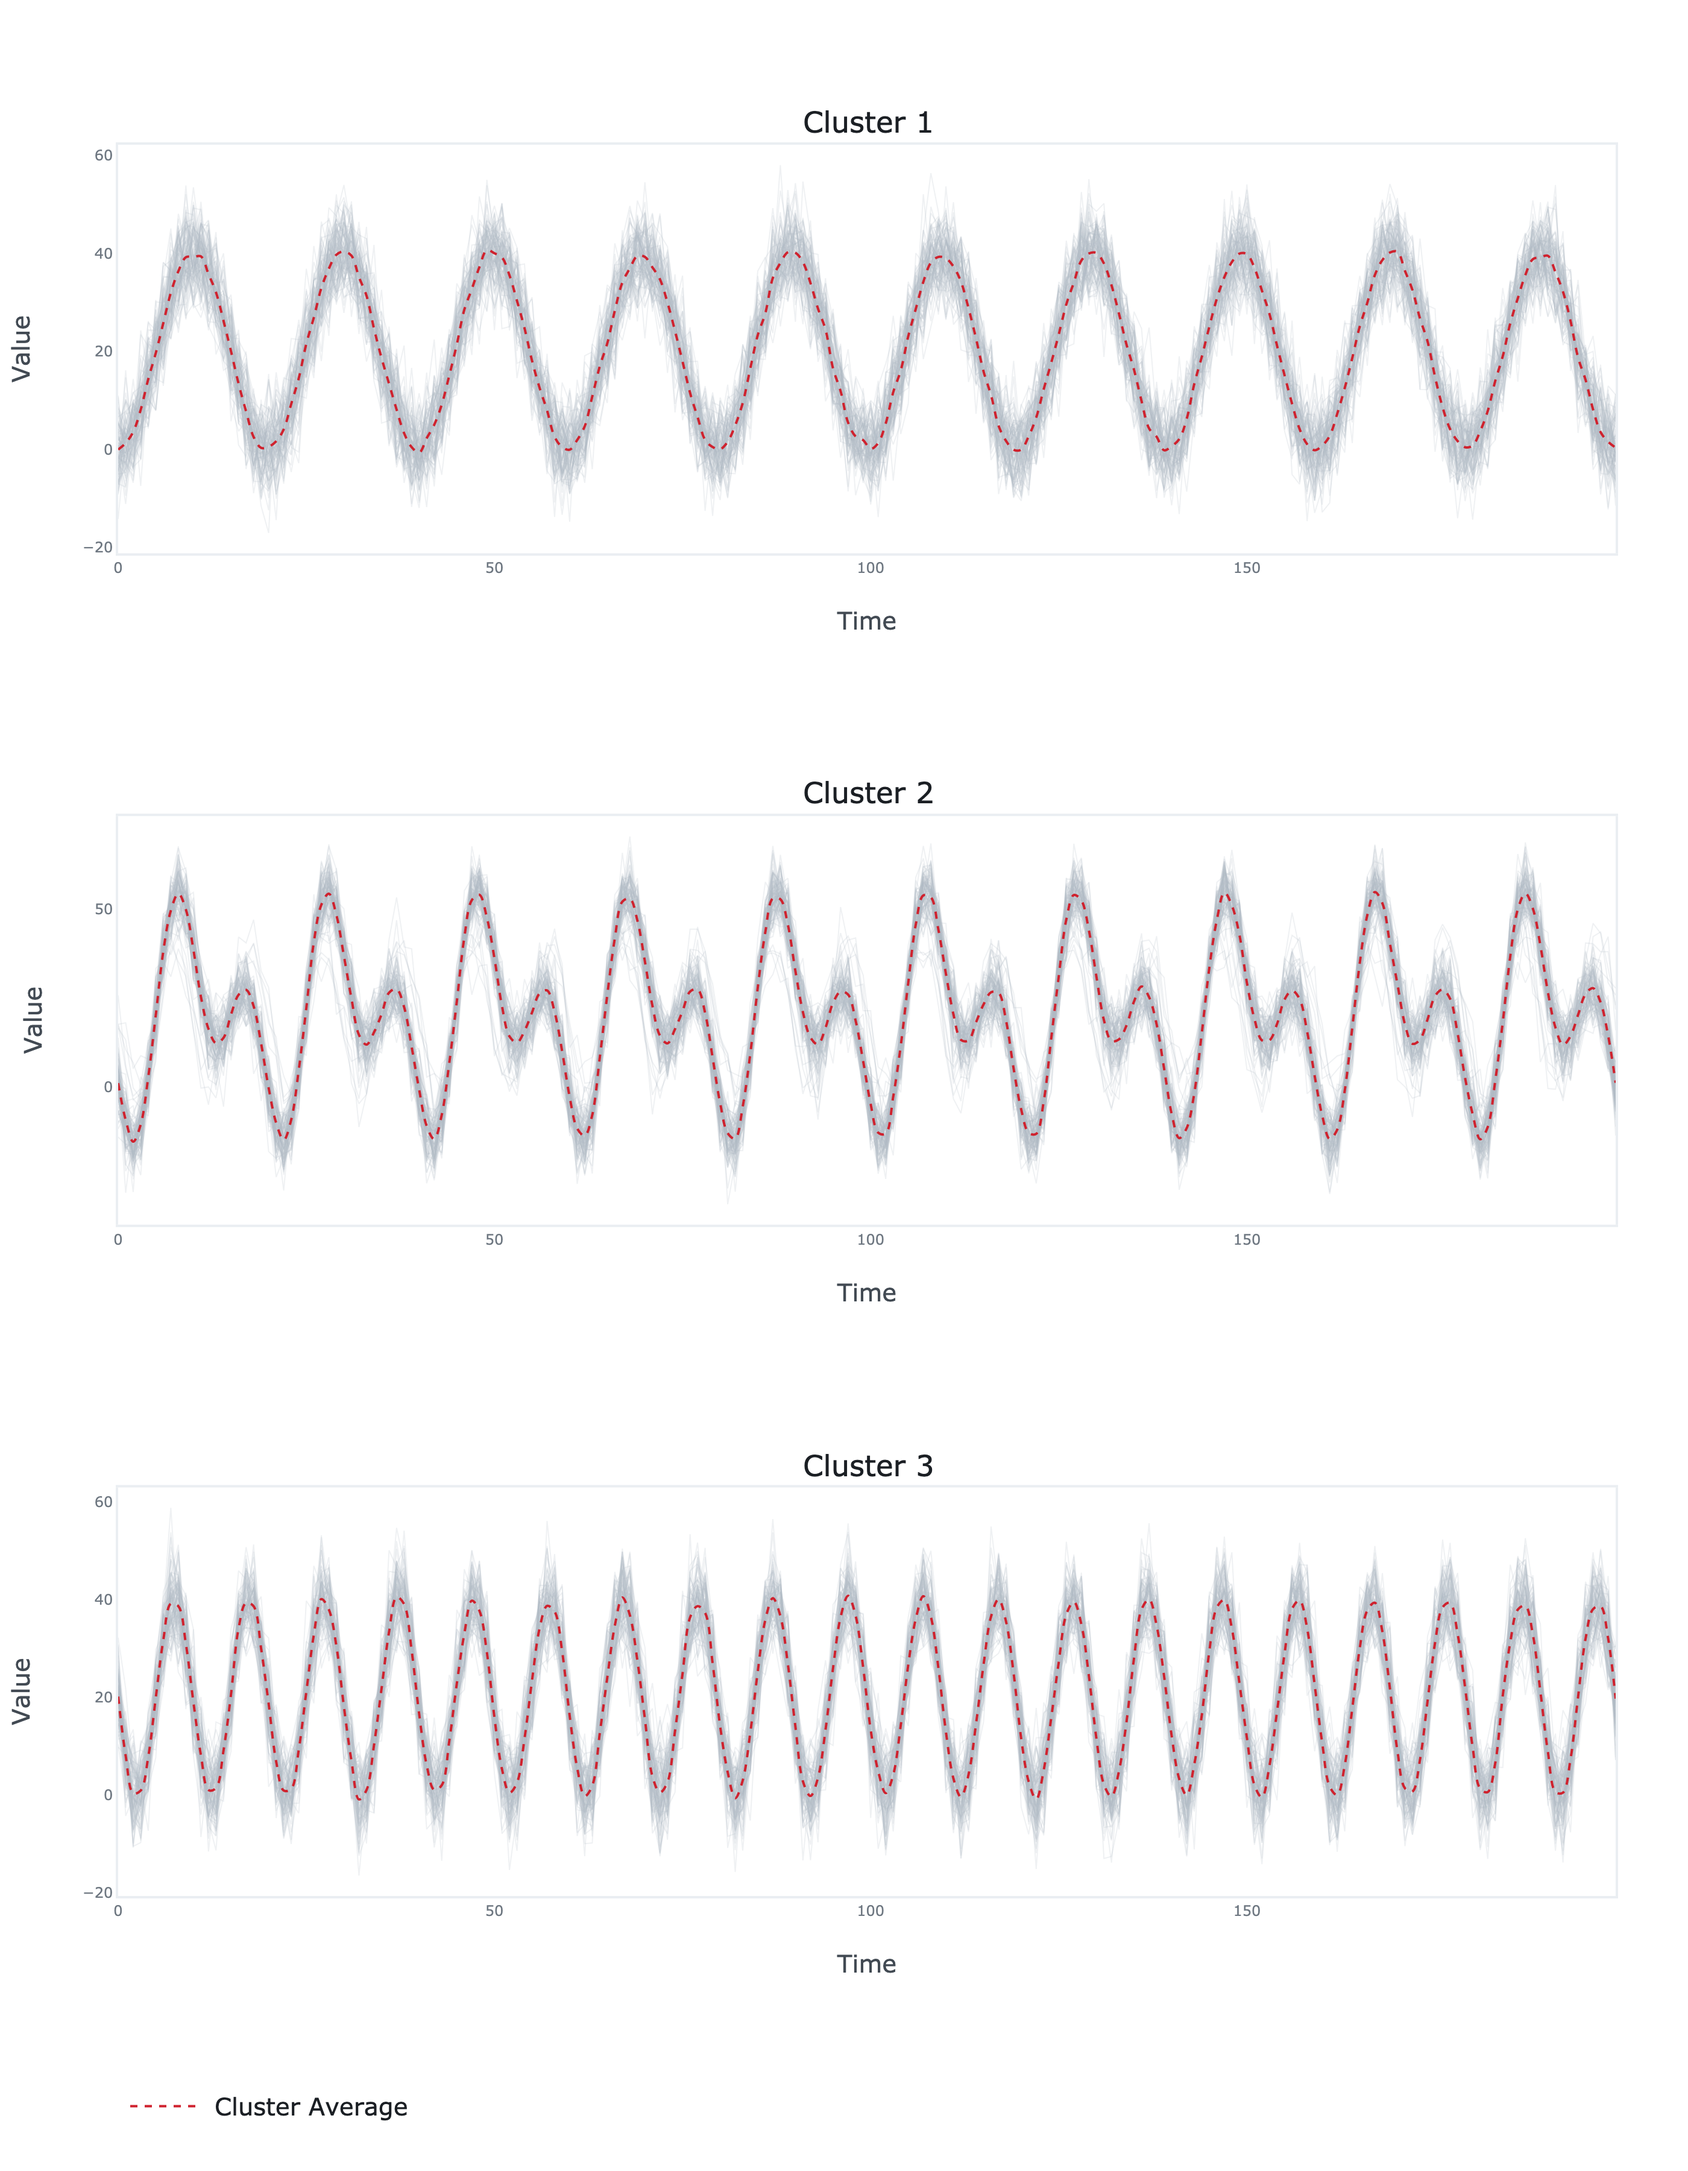
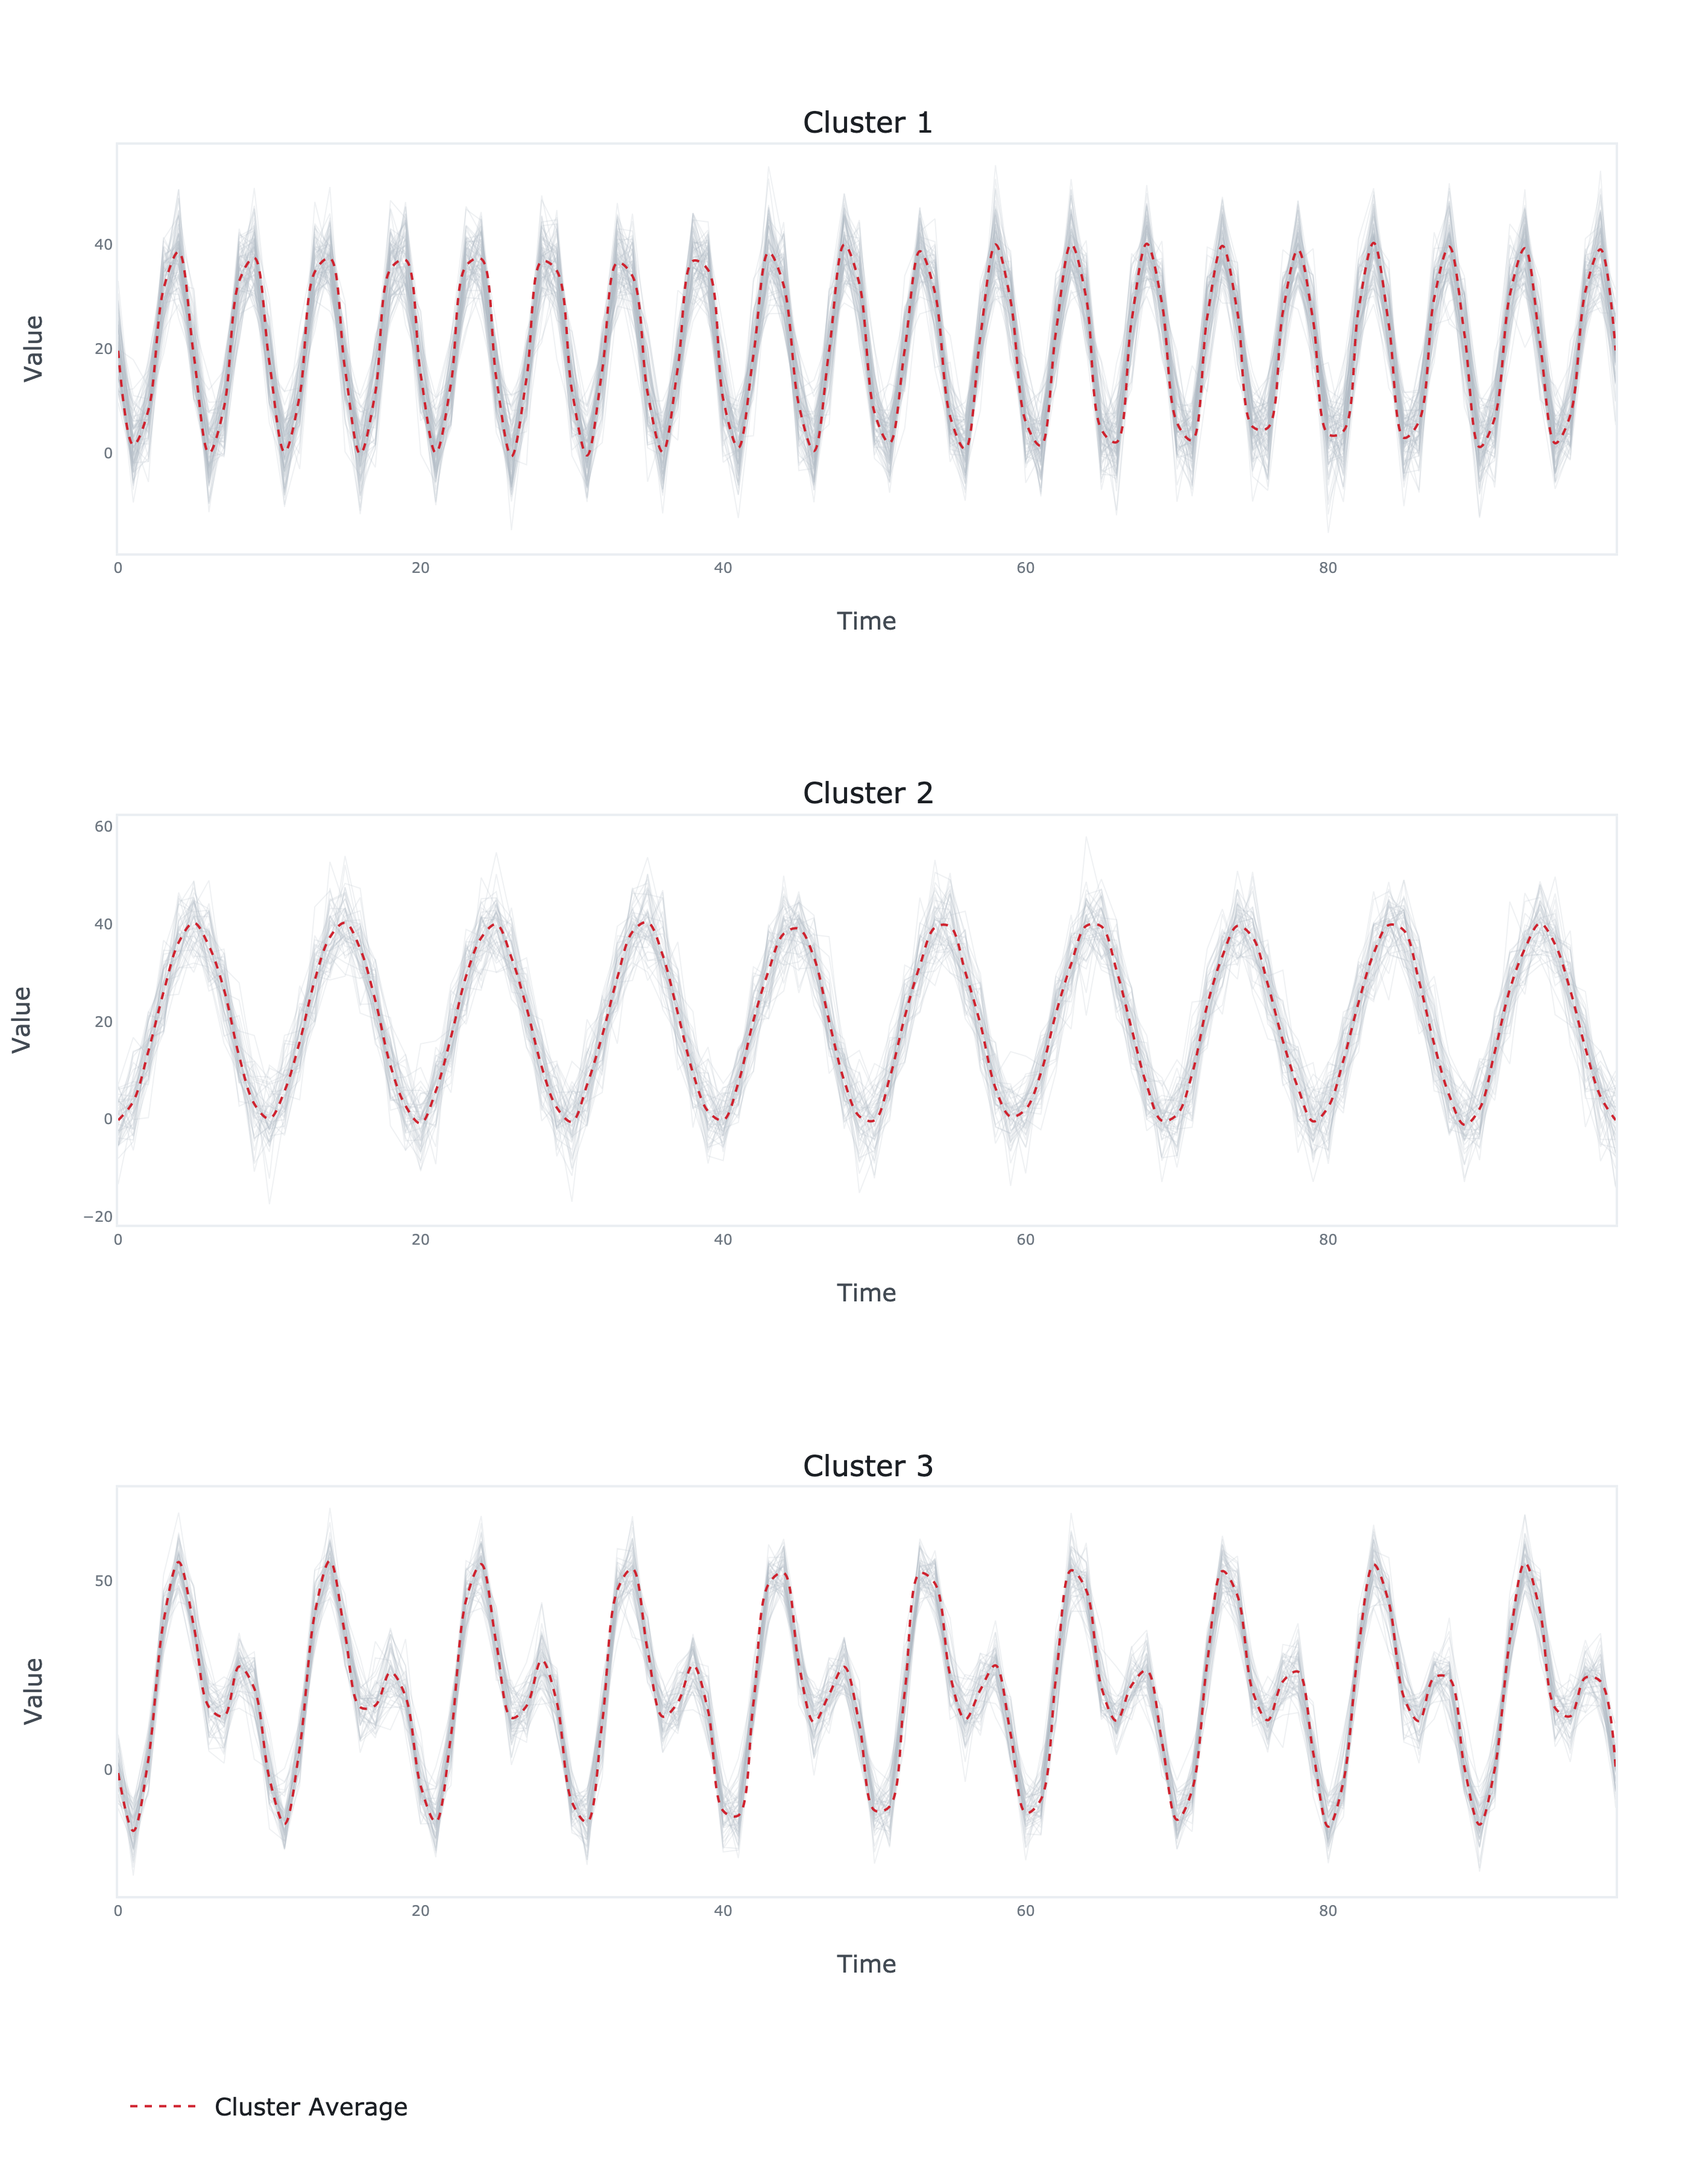
update example

diff --git a/example/example.py b/example/example.py
@@ -1,13 +1,14 @@
 import numpy as np
+from sklearn.model_selection import train_test_split
 from sklearn.cluster import KMeans
 
 from usrl_mts_pytorch.model import Encoder
 from usrl_mts_pytorch.plots import plot
 
-# Generate the time series
+# Generate the data
 N = 60   # number of time series
-C = 5    # number of dimensions of each time series
-L = 200  # number of samples of each time series
+C = 10   # number of dimensions of each time series
+L = 100  # number of samples of each time series
 x = np.zeros((N, C, L))
 t = np.linspace(0, 1, L)
 c = np.cos(2 * np.pi * (10 * t - 0.5))
@@ -16,9 +17,12 @@ x[:N // 3] = 20 + 20 * c + 5 * np.random.normal(size=(N // 3, C, L))
 x[N // 3: 2 * N // 3] = 20 + 20 * s + 5 * np.random.normal(size=(N // 3, C, L))
 x[2 * N // 3:] = 20 + 20 * c + 20 * s + 5 * np.random.normal(size=(N // 3, C, L))
 
-# Fit the encoder to the time series
+# Split the data
+x_train, x_test = train_test_split(x, test_size=0.3)
+
+# Fit the encoder
 encoder = Encoder(
-    x=x,
+    x=x_train,
     blocks=2,
     filters=8,
     kernel_size=3,
@@ -35,12 +39,13 @@ encoder.fit(
 )
 
 # Generate the representations
-z = encoder.predict(x)
+z_train = encoder.predict(x_train)
+z_test = encoder.predict(x_test)
 
 # Fit a clustering algorithm to the representations
 kmeans = KMeans(n_clusters=3)
-kmeans.fit(z)
+kmeans.fit(z_train)
 
-# Plot the clustering results
-fig = plot(x=x, y=kmeans.predict(z))
+# Plot the results
+fig = plot(x=x_test, y=kmeans.predict(z_test))
 fig.write_image('results.png', scale=4, height=900, width=700)

diff --git a/usrl_mts_pytorch/plots.py b/usrl_mts_pytorch/plots.py
@@ -24,7 +24,7 @@ def plot(x, y):
     '''
 
     # extract the distinct clusters
-    c = np.unique(y)
+    c = np.unique(y).astype(int)
     
     fig = make_subplots(
         subplot_titles=['Cluster ' + str(i + 1) for i in c],

diff --git a/README.md b/README.md
@@ -19,15 +19,16 @@ kaleido==0.2.1
 ## Usage
 ```python
 import numpy as np
+from sklearn.model_selection import train_test_split
 from sklearn.cluster import KMeans
 
 from usrl_mts_pytorch.model import Encoder
 from usrl_mts_pytorch.plots import plot
 
-# Generate the time series
+# Generate the data
 N = 60   # number of time series
-C = 5    # number of dimensions of each time series
-L = 200  # number of samples of each time series
+C = 10   # number of dimensions of each time series
+L = 100  # number of samples of each time series
 x = np.zeros((N, C, L))
 t = np.linspace(0, 1, L)
 c = np.cos(2 * np.pi * (10 * t - 0.5))
@@ -36,9 +37,12 @@ x[:N // 3] = 20 + 20 * c + 5 * np.random.normal(size=(N // 3, C, L))
 x[N // 3: 2 * N // 3] = 20 + 20 * s + 5 * np.random.normal(size=(N // 3, C, L))
 x[2 * N // 3:] = 20 + 20 * c + 20 * s + 5 * np.random.normal(size=(N // 3, C, L))
 
-# Fit the encoder to the time series
+# Split the data
+x_train, x_test = train_test_split(x, test_size=0.3)
+
+# Fit the encoder
 encoder = Encoder(
-    x=x,
+    x=x_train,
     blocks=2,
     filters=8,
     kernel_size=3,
@@ -55,14 +59,15 @@ encoder.fit(
 )
 
 # Generate the representations
-z = encoder.predict(x)
+z_train = encoder.predict(x_train)
+z_test = encoder.predict(x_test)
 
 # Fit a clustering algorithm to the representations
 kmeans = KMeans(n_clusters=3)
-kmeans.fit(z)
+kmeans.fit(z_train)
 
-# Plot the clustering results
-fig = plot(x=x, y=kmeans.predict(z))
+# Plot the results
+fig = plot(x=x_test, y=kmeans.predict(z_test))
 fig.write_image('results.png', scale=4, height=900, width=700)
 ```
 ![results](example/results.png)
